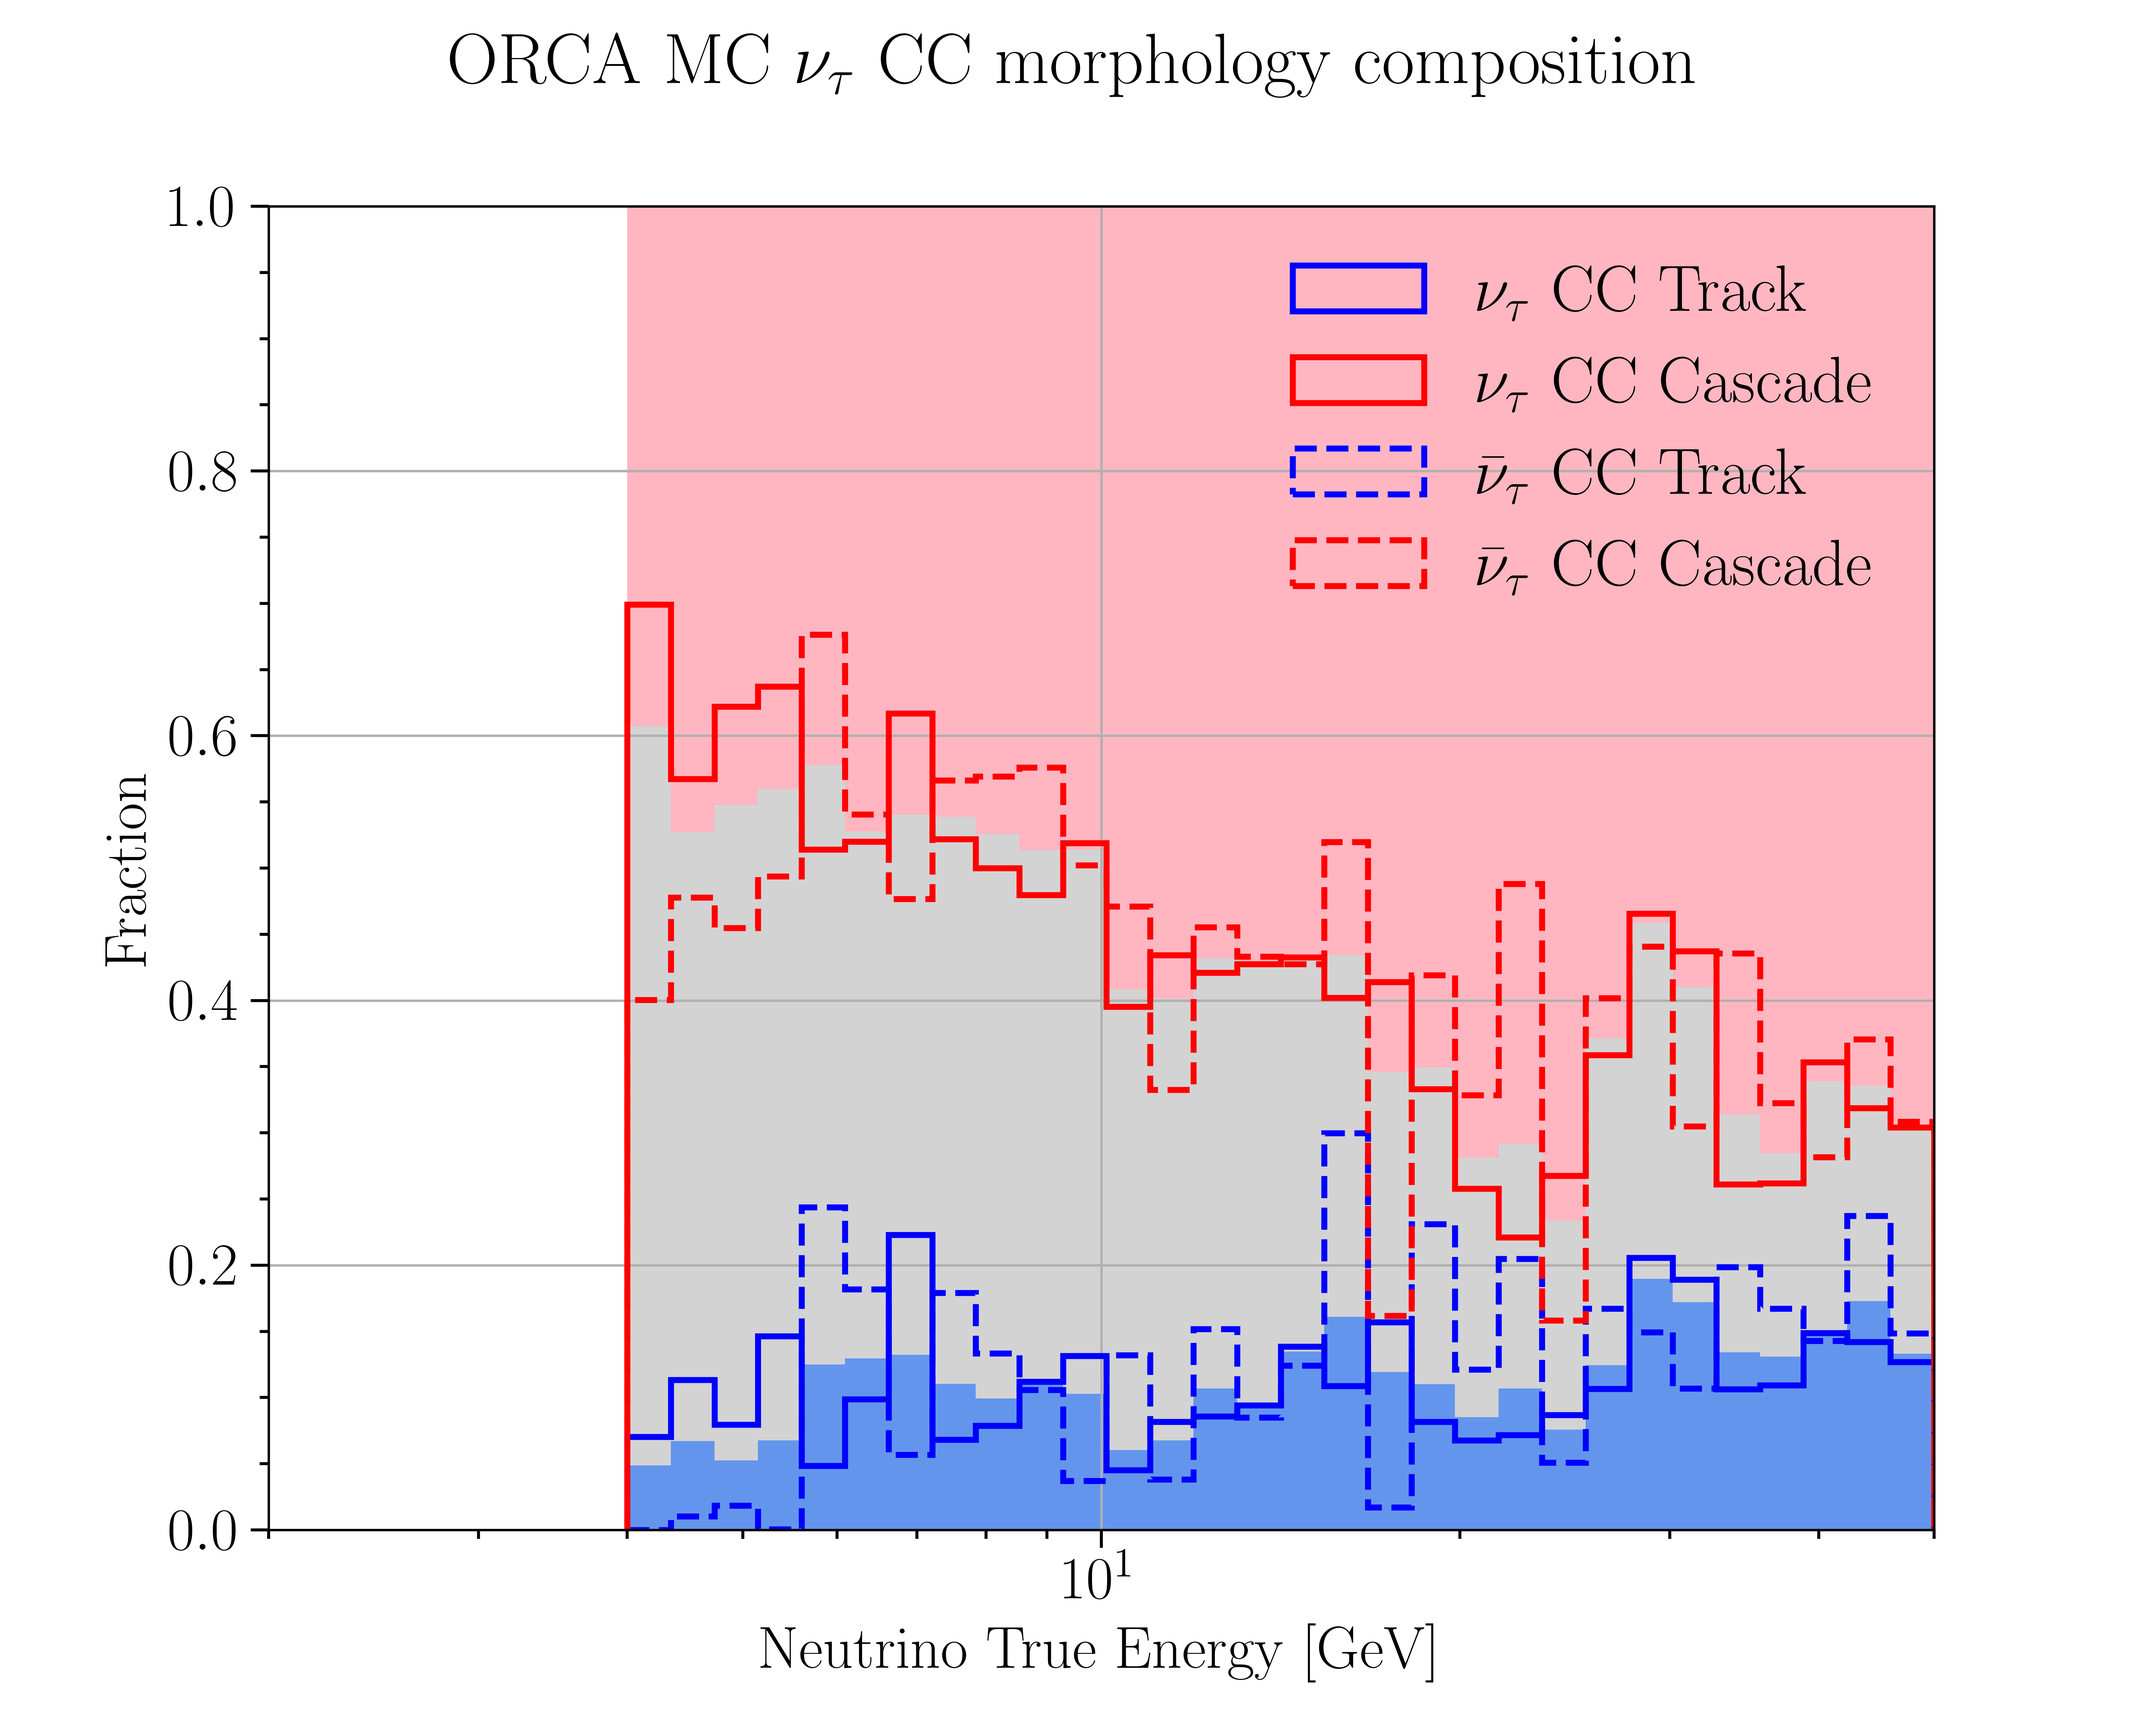
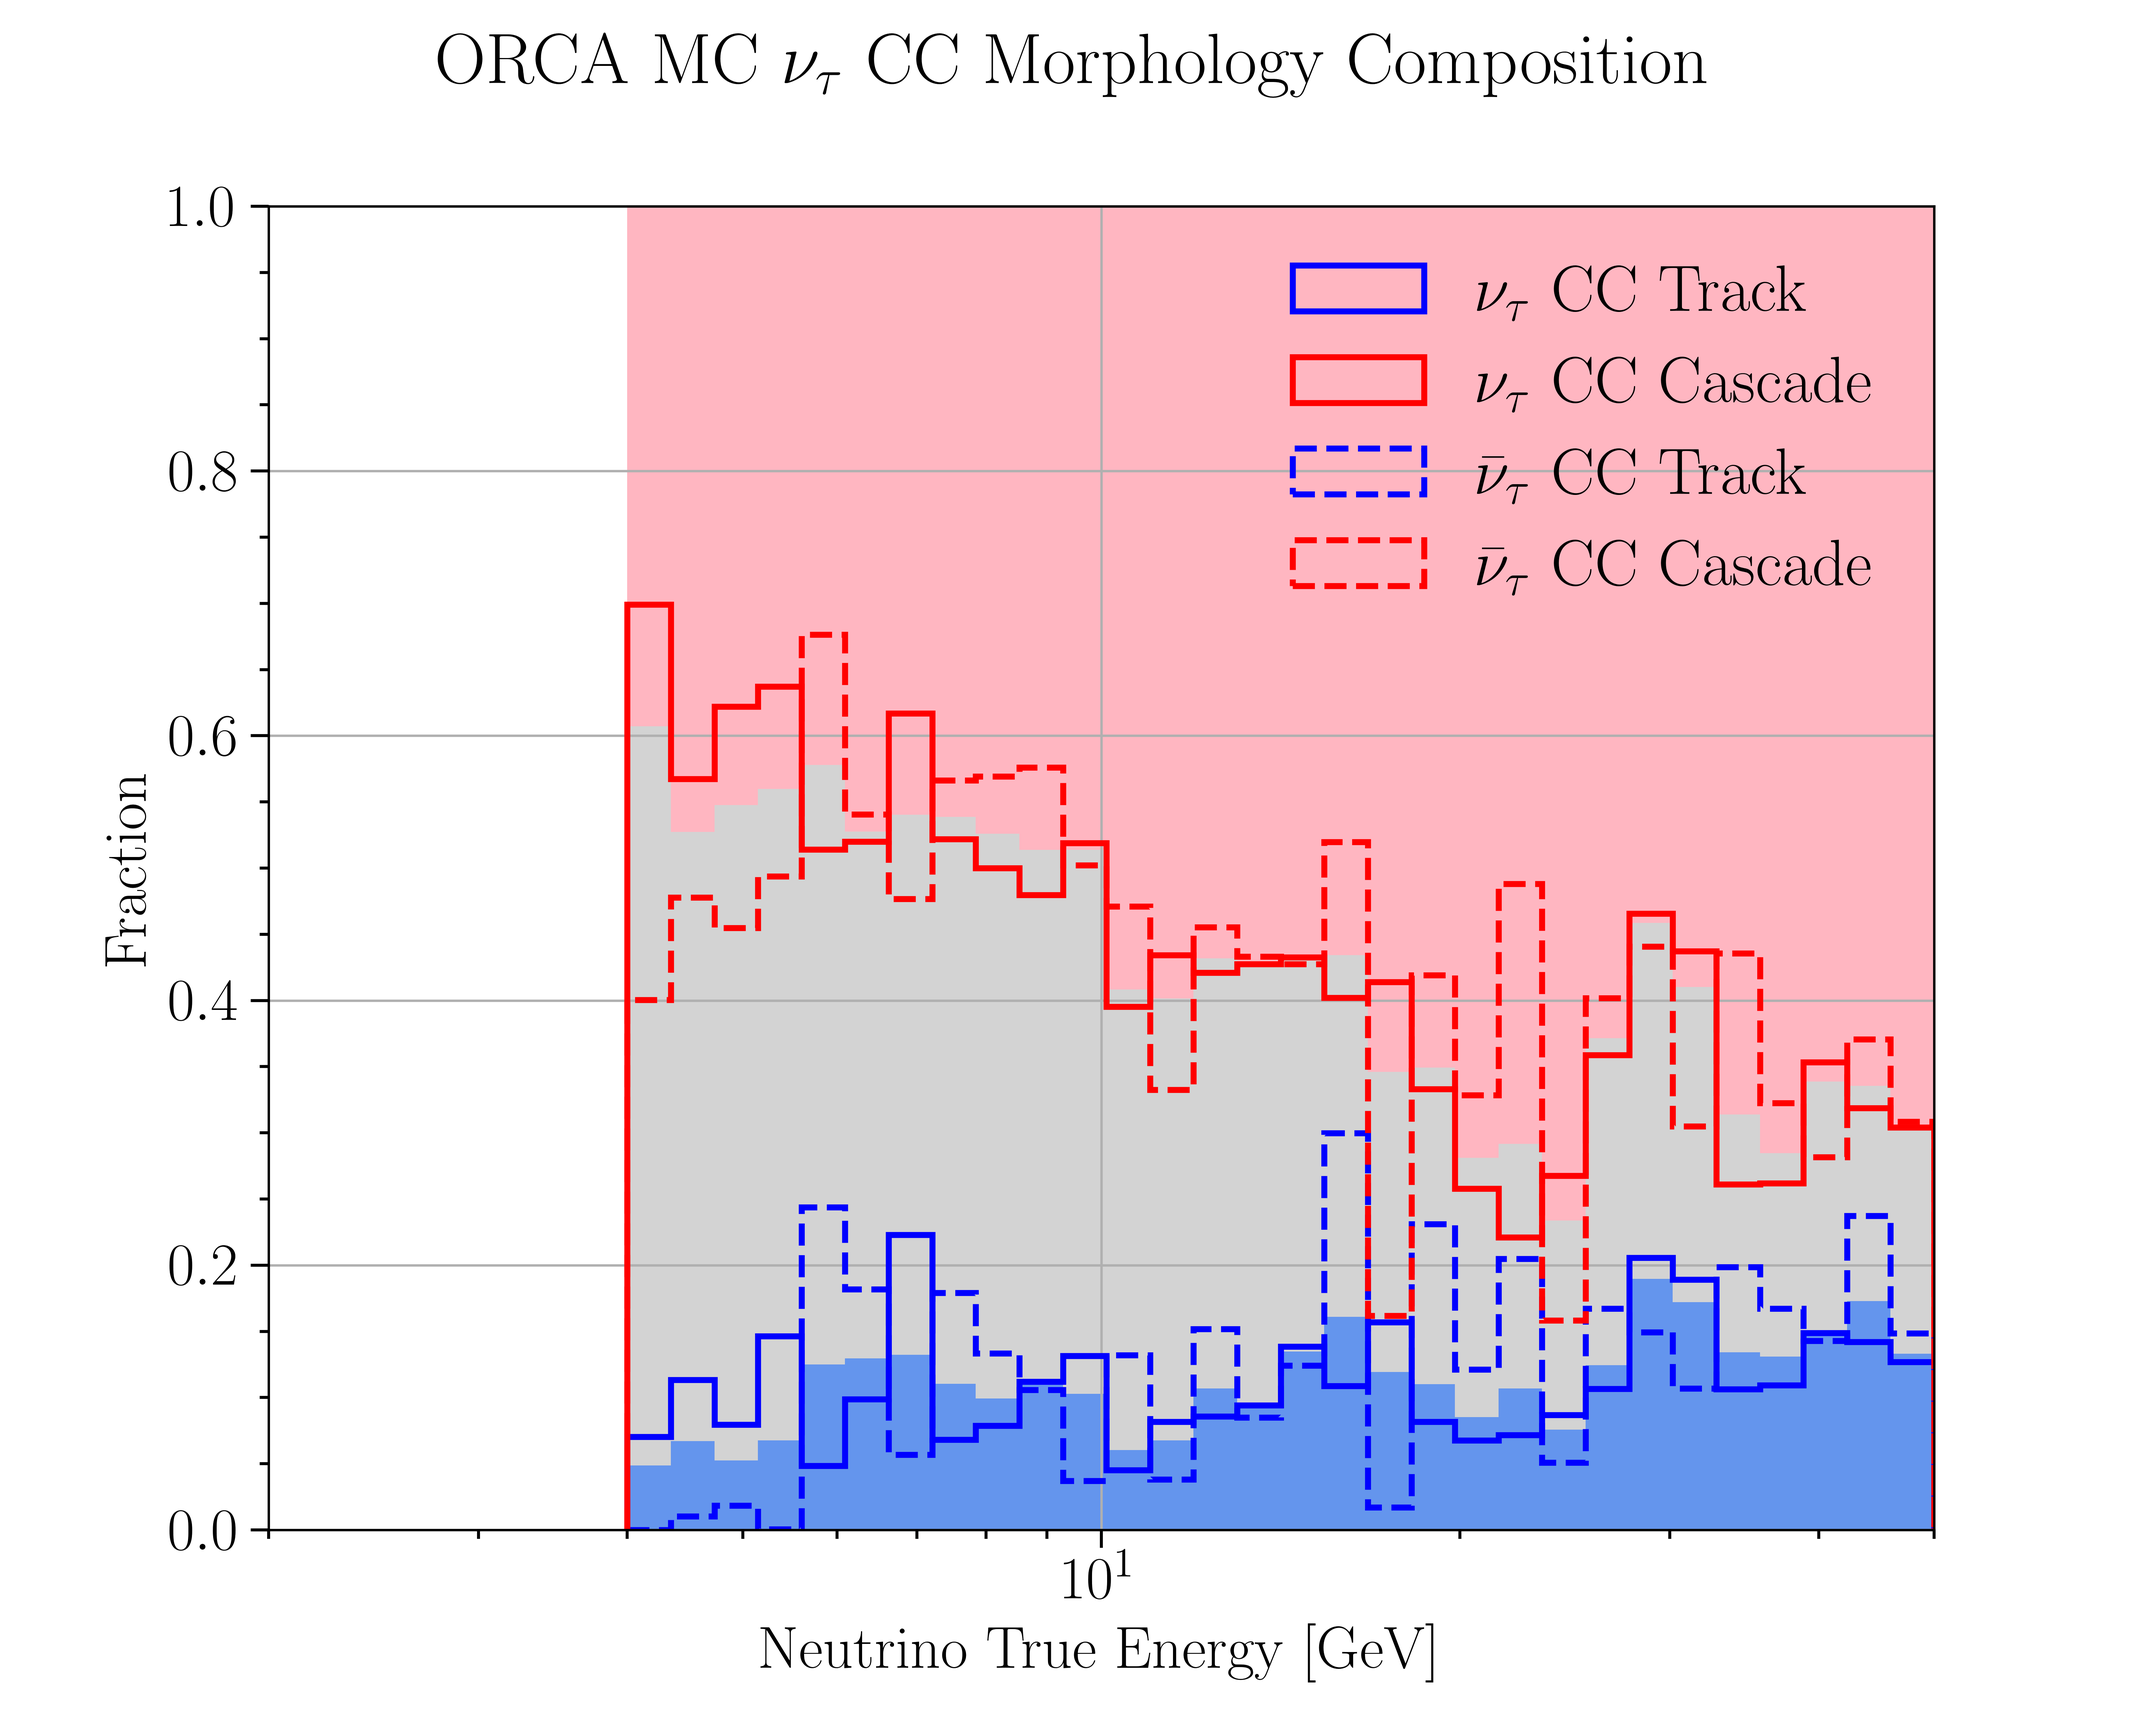
minor fix to morphology plot

Changed region(s): [[0.4675, 0.0312, 0.8103, 0.0625], [0.2182, 0.0, 0.4363, 0.0625]]

diff --git a/sources/NewAnalysis/ORCAplot.py b/sources/NewAnalysis/ORCAplot.py
@@ -203,19 +203,18 @@ def ORCA_topology_details(flavor, current):
 	fig, ax = plt.subplots(figsize=(10,8))
 	if flavname == "e":
 		if curname == "CC":
-			fig.suptitle(r"ORCA MC $\nu_e$ CC morphology composition")
-		elif curname == "NC":
-			fig.suptitle(r"ORCA MC $\nu_e$ NC morphology composition")
+			fig.suptitle(r"ORCA MC $\nu_e$ CC Morphology Composition")
 	elif flavname == "mu":
 		if curname == "CC":
-			fig.suptitle(r"ORCA MC $\nu_\mu$ CC morphology composition")
-		elif curname == "NC":
-			fig.suptitle(r"ORCA MC $\nu_\mu$ NC morphology composition")
+			fig.suptitle(r"ORCA MC $\nu_\mu$ CC Morphology Composition")
 	elif flavname == "tau":
 		if curname == "CC":
-			fig.suptitle(r"ORCA MC $\nu_\tau$ CC morphology composition")
-		elif curname == "NC":
-			fig.suptitle(r"ORCA MC $\nu_\tau$ NC morphology composition")
+			fig.suptitle(r"ORCA MC $\nu_\tau$ CC Morphology Composition")
+	
+	if curname == "NC":
+		fig.suptitle(r"ORCA MC NC Morphology Composition")
+	
+
 	# first the neutrino ones
 	ax.hist(energy_bins[:-1], energy_bins, weights = numu_CC_track_hist / numu_CC_all_hist,\
 					 label=labelname1, color="blue", histtype="step")
